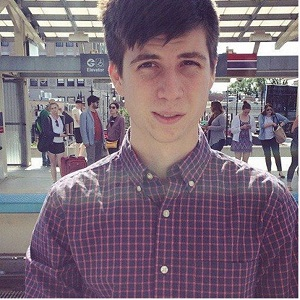
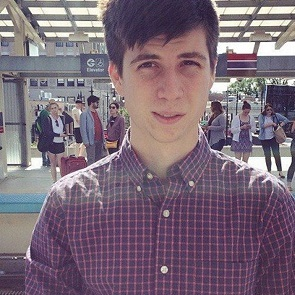
Add css on photo

diff --git a/index.html b/index.html
@@ -18,13 +18,13 @@
 
   <section id="contact_info">
     <h1>Mykola Tokar</h1>
+    <img src="../Project_2/images/myphoto.jpg" alt="my photo" id="myphoto" />
     <ul id=info_list>
-      <li>6415 N Sheridan Rd Apt.803, Chicago, IL 60626</li>
+      <li>Address: 6415 N Sheridan Rd Apt.803, Chicago, IL 60626</li>
       <li>Phone: 7738656067</li>
       <li>E-mail: mykolatokar1995@gmail.com</li>
     </ul>
     <!--<p>6415 N Sheridan Rd Apt.803 &#9679; Chicago, IL 60626 &#9679; Phone: 7738656067 &#9679; E-mail: mykolatokar1995@gmail.com  </p> -->
-    <img src="../Project_2/images/myphoto.jpg" alt="my photo" id="myphoto" />
   </section>
 
   <section id="education">

diff --git a/css/index_css.css b/css/index_css.css
@@ -38,6 +38,21 @@ li a:hover {
 html #index {
   background: linear-gradient(to right, #c9d6ff ,#e2e2e2);
 }
+#myphoto {
+  float: left;
+  position: relative;
+  margin-left: 5%;
+}
+#info_list {
+  margin-top: 0px;
+  float: left;
+  position: relative;
+  text-align: left;
+}
+#info_list li {
+  margin-left: 10%;
+  padding-bottom: 5%;
+}
 #contact_info {
   text-align: center;
 }
